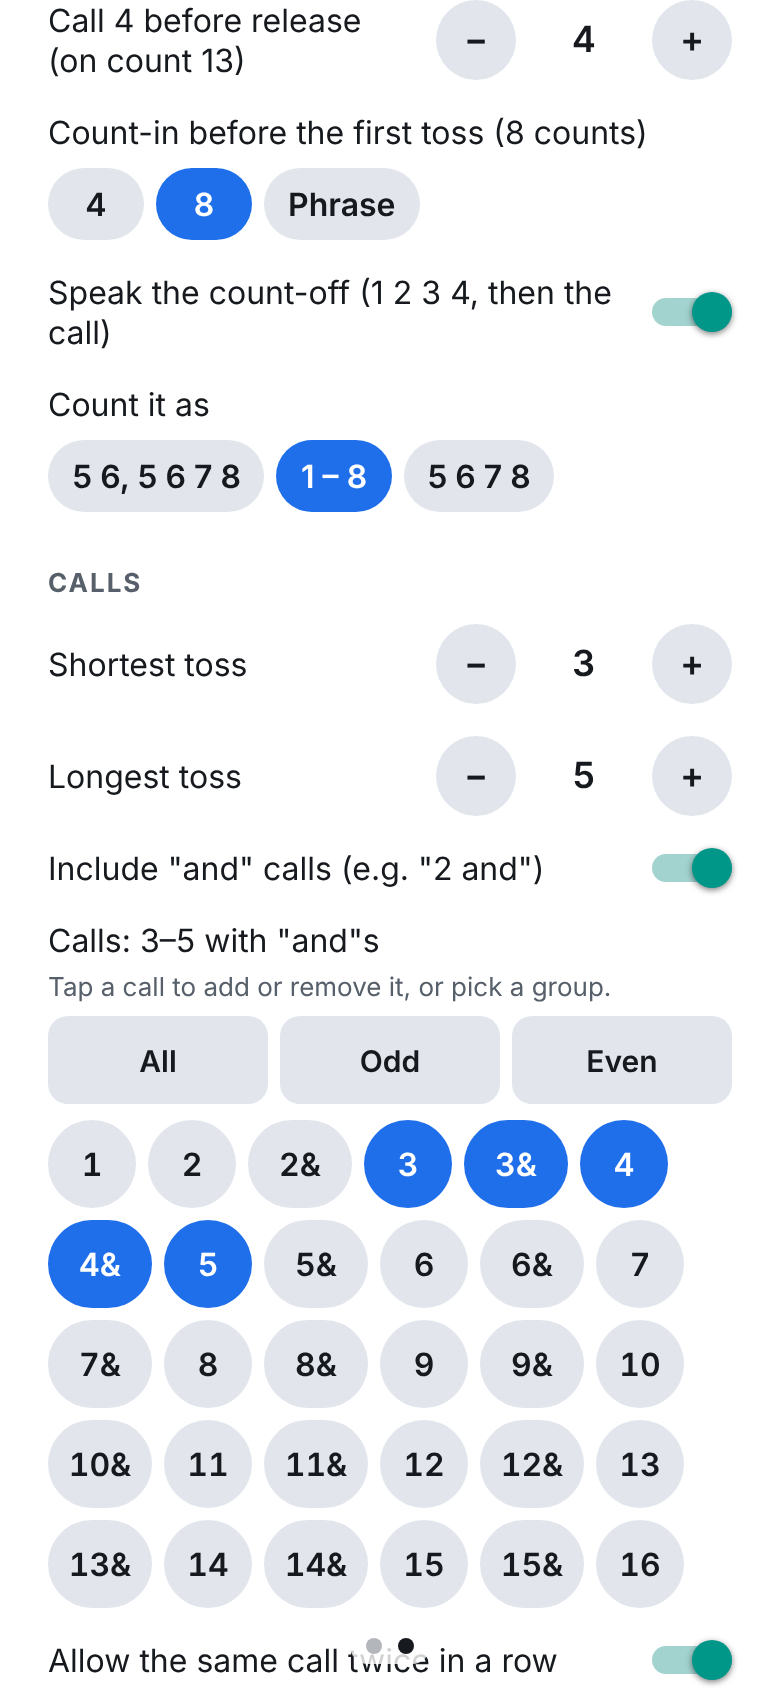
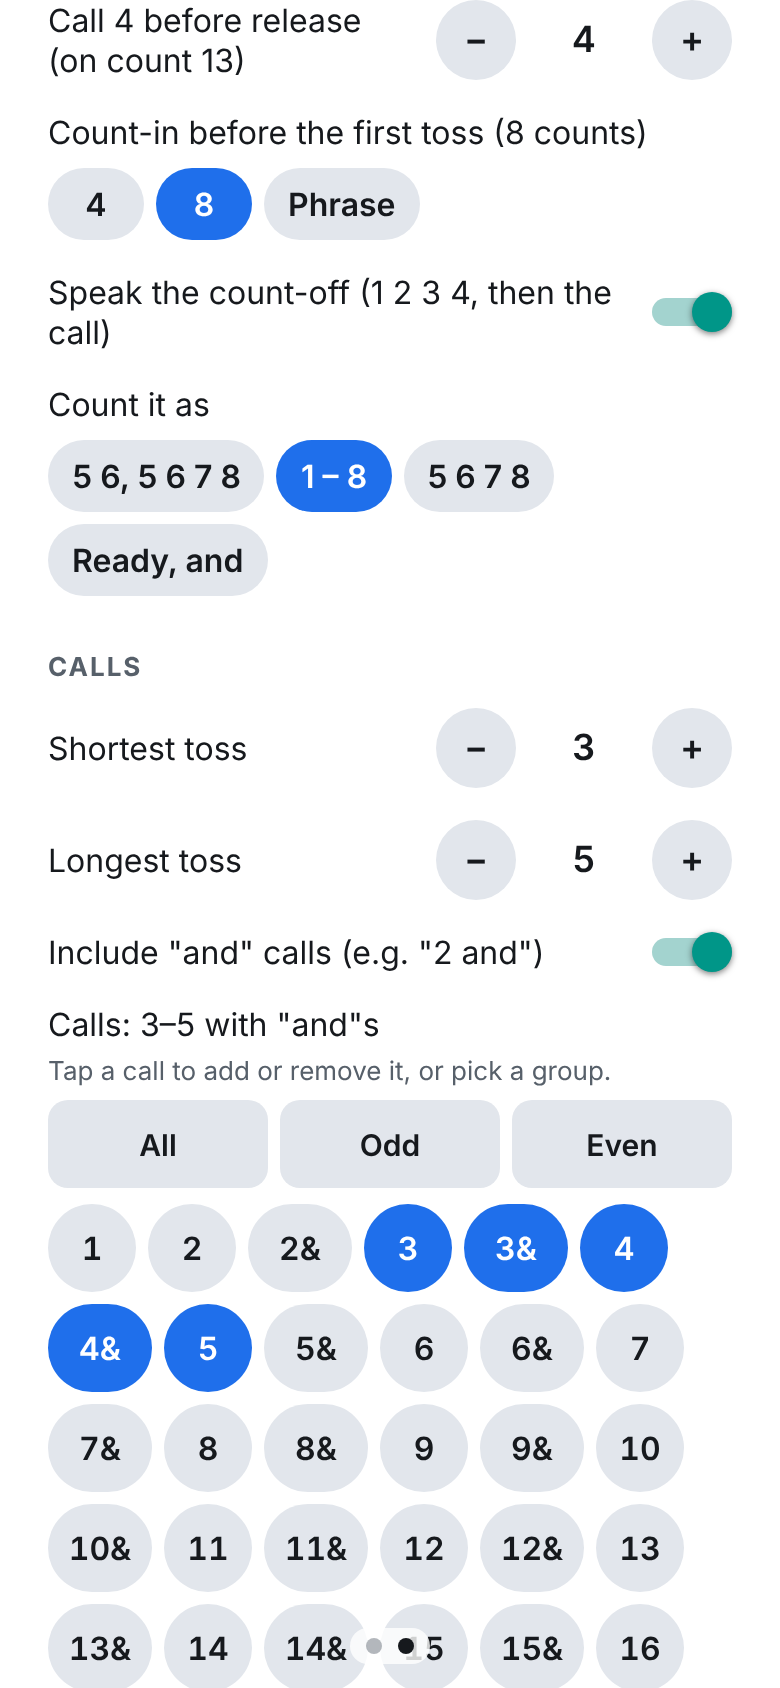
test(e2e): smoke-check and screenshot the "Ready, and" count-off
Checks the toggle summary, that "ready", "and" are spoken right before
the call, and that the pattern is saved; new screenshot 28-count-off-ready.

Claude-Session: https://claude.ai/code/session_01UV53BD5WXz4PnHWJx36RVQ

diff --git a/e2e/smoke.js b/e2e/smoke.js
@@ -331,6 +331,33 @@ async function main() {
       countedOff.slice(0, 4).join(' ') === 'one two three four' && countedOff.length === 5,
       countedOff.map((t) => `"${t}"`).join(', ') || 'none',
     );
+    // "Ready, and": two words on the counts just before the call.
+    await page.getByRole('radio', { name: /^Ready, and/ }).click();
+    check(
+      '"Ready, and" is summarized in words',
+      await page.getByText('Speak the count-off ("ready, and", then the call)').isVisible(),
+    );
+    await page.evaluate(() => (window.__speech.length = 0));
+    await page.getByRole('button', { name: 'Start practice' }).click();
+    await page.waitForTimeout((COUNT_IN - LEAD_COUNTS + 1.5) * (60_000 / (BPM + 1)));
+    await page.getByRole('button', { name: 'Stop practice' }).click();
+    const readied = await page.evaluate(() => window.__speech.map((u) => u.text));
+    check(
+      '"Ready, and" speaks ready, and, then the call',
+      readied.slice(0, 2).join(' ') === 'ready and' && readied.length === 3,
+      readied.map((t) => `"${t}"`).join(', ') || 'none',
+    );
+    const savedReady = await page
+      .waitForFunction(
+        () =>
+          JSON.parse(localStorage.getItem('guardrr.settings') ?? '{}').cue?.countOffPattern ===
+          'ready',
+        null,
+        { timeout: 3000 },
+      )
+      .then(() => true)
+      .catch(() => false);
+    check('"Ready, and" is saved', savedReady);
     await page.getByRole('radio', { name: 'Prep count: 5 6, 5 6 7 8' }).click();
     await page.getByRole('switch', { name: /Speak the count-off/ }).click();
     check(

diff --git a/scripts/screenshots.js b/scripts/screenshots.js
@@ -218,6 +218,9 @@ async function main() {
     await page.getByRole('radio', { name: 'Straight count: 1 to 8' }).click();
     await page.waitForTimeout(200);
     await shot(page, '20-count-off-straight');
+    await page.getByRole('radio', { name: /^Ready, and/ }).click();
+    await page.waitForTimeout(200);
+    await shot(page, '28-count-off-ready');
     await page.getByRole('radio', { name: 'Prep count: 5 6, 5 6 7 8' }).click();
 
     // Settings → Sound: the optional call buzz, then "Buzz the number".
